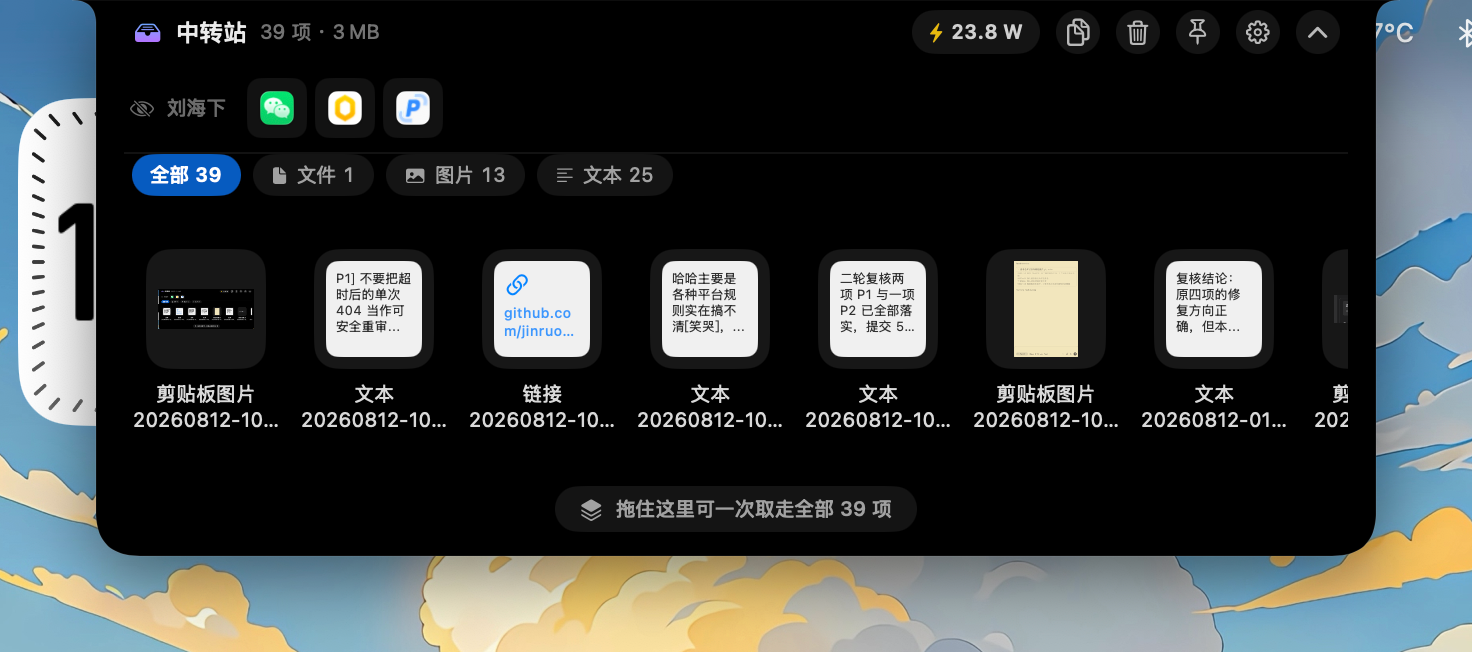
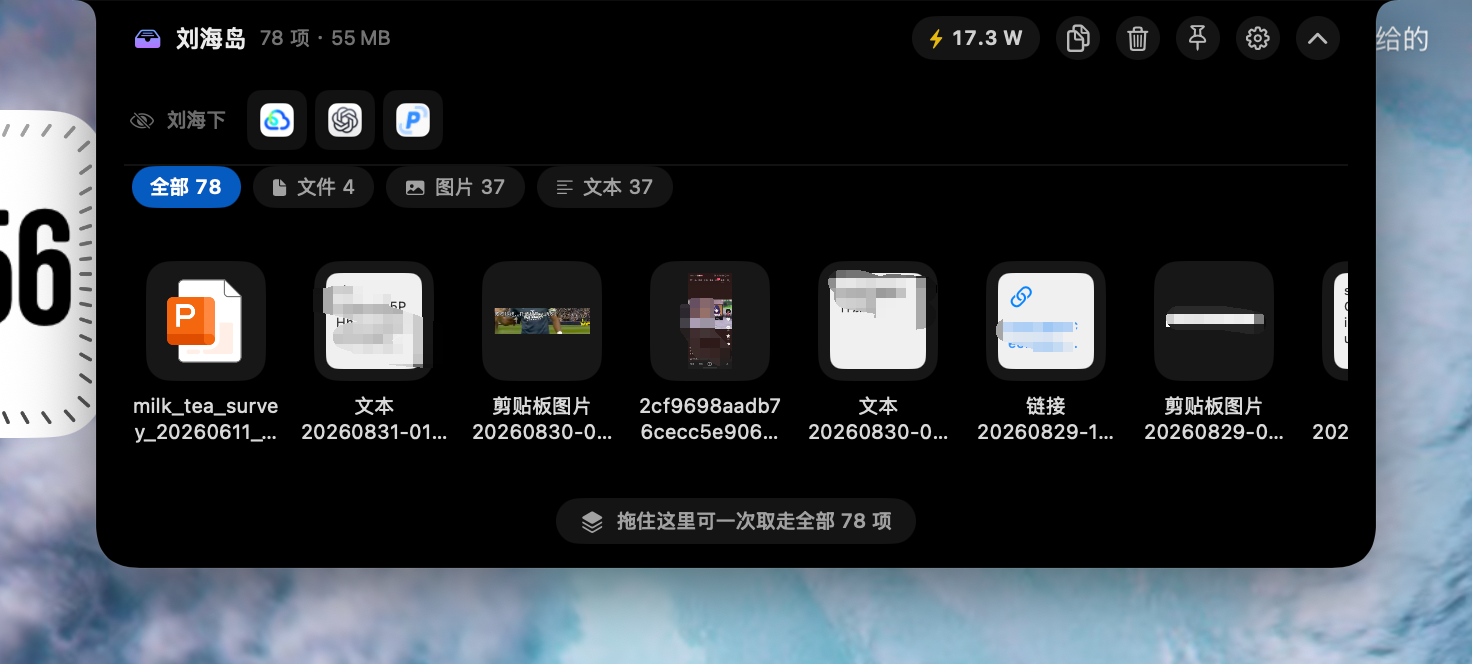
更新 README 展示图为最新界面截图。
替换 docs/images/expanded.png，并调整图片容器标签以确保 GitHub 上正常显示。

diff --git a/README.md b/README.md
@@ -10,9 +10,9 @@
 
 **[下载最新版本 →](https://github.com/2922178532/NotchIsland/releases/latest)**
 
-<p align="center">
+<div align="center">
   <img src="docs/images/expanded.png" width="760" alt="展开的刘海岛面板：文件卡片、被刘海挡住的图标行、实时功耗">
-</p>
+</div>
 
 ## 亮点
 
